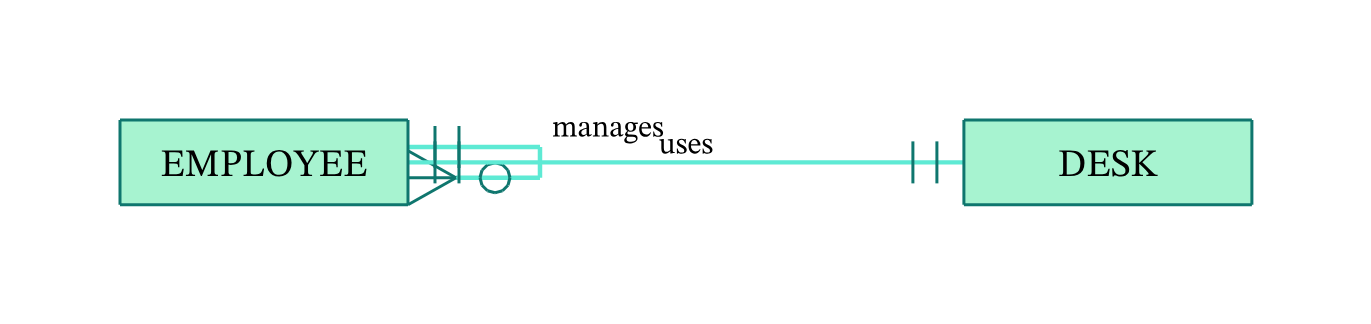
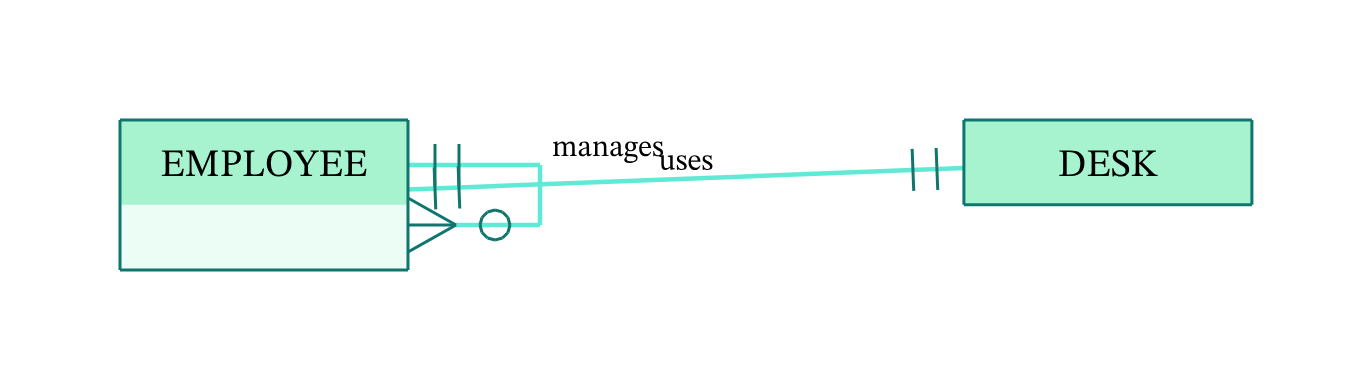
sirentide 281 F2: painted-bounds oracle, marker-specific playback pin, required bands, aggregation case
Four gaps Lattice named in the collision oracle:
(a) markerFootprint measured CENTERLINES and ignored strokeWidth, so two markers clearing
each other by less than their combined half-widths still overlapped on screen. Footprints
are now painted bounds, and a second assertion measures them at the ACTIVE 2x playback
stroke — the width a viewer actually sees.
(b) the playback test only proved frame 0 contained the accent SOMEWHERE, which an accented
leg or label satisfies even if marker recolouring broke. It now extracts the per-group
<g data-sirentide-seq> block and pins marker-specific output: the ACTIVE group carries the
accent AND the doubled marker stroke, the FUTURE group carries neither.
(c) the per-band comparison silently skipped null footprints, so a fixture that stopped
rendering one end would still pass 'nothing overlaps'. ER call sites now require each
expected top and bottom marker to be present before comparing.
(d) adds the missing repeated o-- AGGREGATION self-loop case (seq 275 required it; the
hollow diamond is a different primitive from the inheritance triangle).
Gallery png regenerated by the F1 sizing fix and visually verified: the top exact-one bars
and the bottom crow-foot are cleanly separated.

Changed region(s): [[0.0613, 0.2778, 0.919, 0.6481], [0.0919, 0.679, 0.3063, 0.7099]]

diff --git a/src/test/java/com/sirentide/layout/SelfLoopGeometryTest.java b/src/test/java/com/sirentide/layout/SelfLoopGeometryTest.java
@@ -42,7 +42,9 @@ class SelfLoopGeometryTest {
     private static final String EDGE = "#94a3b8";      // class relationship edge line
     private static final String ER_EDGE = "#5eead4";   // ER relationship edge line
     private static final String MK = "#475569";        // class marker glyph colour
-    private static final String ER_MK = "#0f766e";     // ER cardinality marker glyph colour
+    private static final String ER_MK = "#0f766e";
+    private static final String ACCENT = "#e8590c";      // Emphasis.ACCENT (play-through active)
+    private static final double ACTIVE_WIDTH_MULT = 2.0; // Emphasis.ACTIVE_WIDTH_MULT     // ER cardinality marker glyph colour
 
     // -- 1) long label stays inside the viewBox (class + ER) -------------------------------------
 
@@ -368,7 +370,7 @@ class SelfLoopGeometryTest {
             assertTrue(markerFootprint(g, ER_MK) != null, "each ER self-loop rendered a cardinality marker");
         }
         Rect boxA = boxRects(laid, SirentideRole.ENTITY).get(0);
-        assertMarkerFootprintsDisjointAcrossGroups(loops, ER_MK, boxA.y() + boxA.height() / 2);
+        assertMarkerFootprintsDisjointAcrossGroups(loops, ER_MK, boxA.y() + boxA.height() / 2, true);
         assertAllGeometryInside(laid);
     }
 
@@ -401,11 +403,86 @@ class SelfLoopGeometryTest {
         List<String> frames = Sirentide.renderFrames(dsl);
         assertTrue(frames.get(0).contains("#e8590c"), "frame 0 accents the active self-loop marker group");
         assertFalse(Sirentide.render(dsl).contains("#e8590c"), "the static render has no active accent");
-        // (b) geometry (identical in every frame): the two triangle footprints are disjoint.
+        // (a2) MARKER-SPECIFIC recolour (Lattice 281 F2): "the frame contains the accent SOMEWHERE" is
+        // satisfied by an accented leg or label even if marker recolouring broke entirely. Pin it to the
+        // marker groups themselves: in frame 0 the ACTIVE group's own <g> must carry the accent AND the
+        // doubled stroke width, and the FUTURE group's <g> must NOT carry the accent at all.
+        String activeGroup = groupBlock(frames.get(0), 0);
+        String futureGroup = groupBlock(frames.get(0), 1);
+        assertTrue(activeGroup.contains(ACCENT),
+            "frame 0: the ACTIVE self-loop group must carry the accent on its own shapes");
+        assertFalse(futureGroup.contains(ACCENT),
+            "frame 0: a FUTURE self-loop group must NOT carry the active accent");
+        // the ACTIVE promotion also thickens: a 2x stroke width must appear in the active group
+        // The marker's own base stroke is 1, so ACTIVE must paint it at exactly 2 (verified against a
+        // real frame: the FUTURE group emits the same markers at 1).
+        assertTrue(activeGroup.contains("stroke-width=\"2\""),
+            "frame 0: the ACTIVE group's marker strokes must be promoted to the doubled width");
+        assertFalse(futureGroup.contains("stroke-width=\"2\""),
+            "frame 0: a FUTURE group's markers must stay at their base width");
+
+        // (b) geometry (identical in every frame): the two triangle footprints are disjoint, measured as
+        // PAINTED bounds at the ACTIVE 2x stroke — the width a viewer actually sees during play-through.
         LaidOut laid = ClassDiagramLayout.layout((ClassDiagram) DslParser.parse(dsl));
         List<Group> loops = edgeGroups(laid);
         Rect boxA = boxRects(laid, SirentideRole.CLASS).get(0);
         assertMarkerFootprintsDisjointAcrossGroups(loops, MK, boxA.y() + boxA.height() / 2);
+        assertPaintedMarkersDisjointAtActiveWidth(loops, MK, boxA.y() + boxA.height() / 2);
+    }
+
+    /// Lattice 281 F2, the aggregation gap: seq 275 required cross-group marker coverage for AGGREGATION
+    /// as well as inheritance/composition/ER. Aggregation (`o--`) draws a hollow diamond, a different
+    /// primitive from the inheritance triangle, so it needs its own case rather than inheriting the
+    /// triangle's proof. Repeated on ONE class so the two markers land on the same side.
+    @Test
+    void repeatedAggregationSelfLoopMarkersStayDisjoint() {
+        String dsl = "classDiagram\n  class A\n  A o-- A : first\n  A o-- A : second\n";
+        LaidOut laid = ClassDiagramLayout.layout((ClassDiagram) DslParser.parse(dsl));
+        List<Group> loops = edgeGroups(laid);
+        assertEquals(2, loops.size(), "two aggregation self-relations → two edge groups");
+        for (Group g : loops) { // POSITIVE control: each rendered its diamond
+            assertTrue(markerFootprint(g, MK) != null, "each aggregation self-loop rendered its marker");
+        }
+        Rect boxA = boxRects(laid, SirentideRole.CLASS).get(0);
+        assertMarkerFootprintsDisjointAcrossGroups(loops, MK, boxA.y() + boxA.height() / 2);
+        assertPaintedMarkersDisjointAtActiveWidth(loops, MK, boxA.y() + boxA.height() / 2);
+        assertAllGeometryInside(laid);
+    }
+
+    /// Disjointness measured at the ACTIVE playback stroke width, where the painted marks are fattest.
+    private static void assertPaintedMarkersDisjointAtActiveWidth(
+            List<Group> groups, String markerColor, double splitY) {
+        for (double[] band : new double[][] {
+                {Double.NEGATIVE_INFINITY, splitY}, {splitY, Double.POSITIVE_INFINITY}}) {
+            List<double[]> boxes = new ArrayList<>();
+            for (Group g : groups) {
+                boxes.add(paintedMarkerFootprint(g, markerColor, band[0], band[1], ACTIVE_WIDTH_MULT));
+            }
+            for (int i = 0; i < boxes.size(); i++) {
+                for (int j = i + 1; j < boxes.size(); j++) {
+                    if (boxes.get(i) == null || boxes.get(j) == null) {
+                        continue;
+                    }
+                    assertFalse(footprintsOverlap(boxes.get(i), boxes.get(j), 1e-6),
+                        "markers of groups " + i + " and " + j + " overlap once PAINTED at the active "
+                            + ACTIVE_WIDTH_MULT + "x stroke: "
+                            + java.util.Arrays.toString(boxes.get(i)) + " vs "
+                            + java.util.Arrays.toString(boxes.get(j)));
+                }
+            }
+        }
+    }
+
+    /// The `<g data-sirentide-seq=k>` block for step k, so a frame assertion can be made about ONE
+    /// group's own shapes rather than about the whole document.
+    private static String groupBlock(String svg, int seq) {
+        String open = "data-sirentide-seq=\"" + seq + "\"";
+        int at = svg.indexOf(open);
+        assertTrue(at >= 0, "frame has no group for seq " + seq);
+        int start = svg.lastIndexOf("<g", at);
+        int end = svg.indexOf("</g>", at);
+        assertTrue(start >= 0 && end > start, "malformed group block for seq " + seq);
+        return svg.substring(start, end);
     }
 
     // -- 5) tall math labels: ascent/descent participate in canvas growth ------------------------
@@ -637,15 +714,34 @@ class SelfLoopGeometryTest {
     /// apart). Checks the top band and the bottom band independently.
     private static void assertMarkerFootprintsDisjointAcrossGroups(
             List<Group> groups, String markerColor, double splitY) {
-        assertBandDisjoint(groups, markerColor, Double.NEGATIVE_INFINITY, splitY, "top");
-        assertBandDisjoint(groups, markerColor, splitY, Double.POSITIVE_INFINITY, "bottom");
+        assertMarkerFootprintsDisjointAcrossGroups(groups, markerColor, splitY, false);
+    }
+
+    /// `requireBothBands` (Lattice 281 F2): when every group is KNOWN to emit a marker at both
+    /// attaches — an ER relationship always emits both cardinality combos — assert each expected
+    /// marker is actually PRESENT before comparing. Without it the pairwise loop below silently
+    /// `continue`s past a null footprint, so a fixture that stopped rendering one end entirely would
+    /// still pass "nothing overlaps". A whole-group positive control does not cover this, because it
+    /// cannot tell which band the marker it found was in.
+    private static void assertMarkerFootprintsDisjointAcrossGroups(
+            List<Group> groups, String markerColor, double splitY, boolean requireBothBands) {
+        assertBandDisjoint(groups, markerColor, Double.NEGATIVE_INFINITY, splitY, "top", requireBothBands);
+        assertBandDisjoint(groups, markerColor, splitY, Double.POSITIVE_INFINITY, "bottom", requireBothBands);
     }
 
     private static void assertBandDisjoint(
-            List<Group> groups, String markerColor, double yLo, double yHi, String side) {
+            List<Group> groups, String markerColor, double yLo, double yHi, String side,
+            boolean requireMarker) {
         List<double[]> boxes = new ArrayList<>();
         for (Group g : groups) {
-            boxes.add(markerFootprint(g, markerColor, yLo, yHi));
+            boxes.add(paintedMarkerFootprint(g, markerColor, yLo, yHi, 1.0));
+        }
+        if (requireMarker) {
+            for (int i = 0; i < boxes.size(); i++) {
+                assertTrue(boxes.get(i) != null,
+                    "edge group " + i + " rendered no " + side + "-attach marker at all — the "
+                        + "disjointness below would be vacuous for it");
+            }
         }
         for (int i = 0; i < boxes.size(); i++) {
             for (int j = i + 1; j < boxes.size(); j++) {
@@ -659,6 +755,45 @@ class SelfLoopGeometryTest {
                         + java.util.Arrays.toString(bi) + " vs " + java.util.Arrays.toString(bj));
             }
         }
+    }
+
+    /// The PAINTED footprint (Lattice 281 F2): the centerline bbox inflated by half the stroke width,
+    /// because a stroke is painted centred on its path — two markers whose CENTERLINES clear each other
+    /// by less than their combined half-widths still visibly overlap on screen. `widthMultiplier` models
+    /// a playback state: an ACTIVE group is emitted at {@code Emphasis.ACTIVE_WIDTH_MULT} (2x) stroke,
+    /// so the frame a viewer actually sees is fatter than the static geometry the old oracle measured.
+    private static double[] paintedMarkerFootprint(
+            Group g, String markerColor, double yLo, double yHi, double widthMultiplier) {
+        double[] box = null;
+        for (Shape s : g.members()) {
+            if (s instanceof Line l && markerColor.equals(l.stroke())) {
+                double pad = (l.strokeWidth() * widthMultiplier) / 2.0;
+                box = mergePoint(box, l.x1(), l.y1(), pad, yLo, yHi);
+                box = mergePoint(box, l.x2(), l.y2(), pad, yLo, yHi);
+            } else if (s instanceof Path pth) {
+                List<double[]> pp = new ArrayList<>();
+                pathPoints(pth.d(), pp);
+                for (double[] q : pp) {
+                    box = mergePoint(box, q[0], q[1], 0, yLo, yHi);
+                }
+            }
+        }
+        return box;
+    }
+
+    private static double[] mergePoint(double[] box, double x, double y, double pad,
+                                       double yLo, double yHi) {
+        if (y < yLo || y >= yHi) {
+            return box;
+        }
+        if (box == null) {
+            return new double[] {x - pad, y - pad, x + pad, y + pad};
+        }
+        box[0] = Math.min(box[0], x - pad);
+        box[1] = Math.min(box[1], y - pad);
+        box[2] = Math.max(box[2], x + pad);
+        box[3] = Math.max(box[3], y + pad);
+        return box;
     }
 
     /// EVERY coordinate a group's leaf geometry touches: line endpoints, rect corners, and every